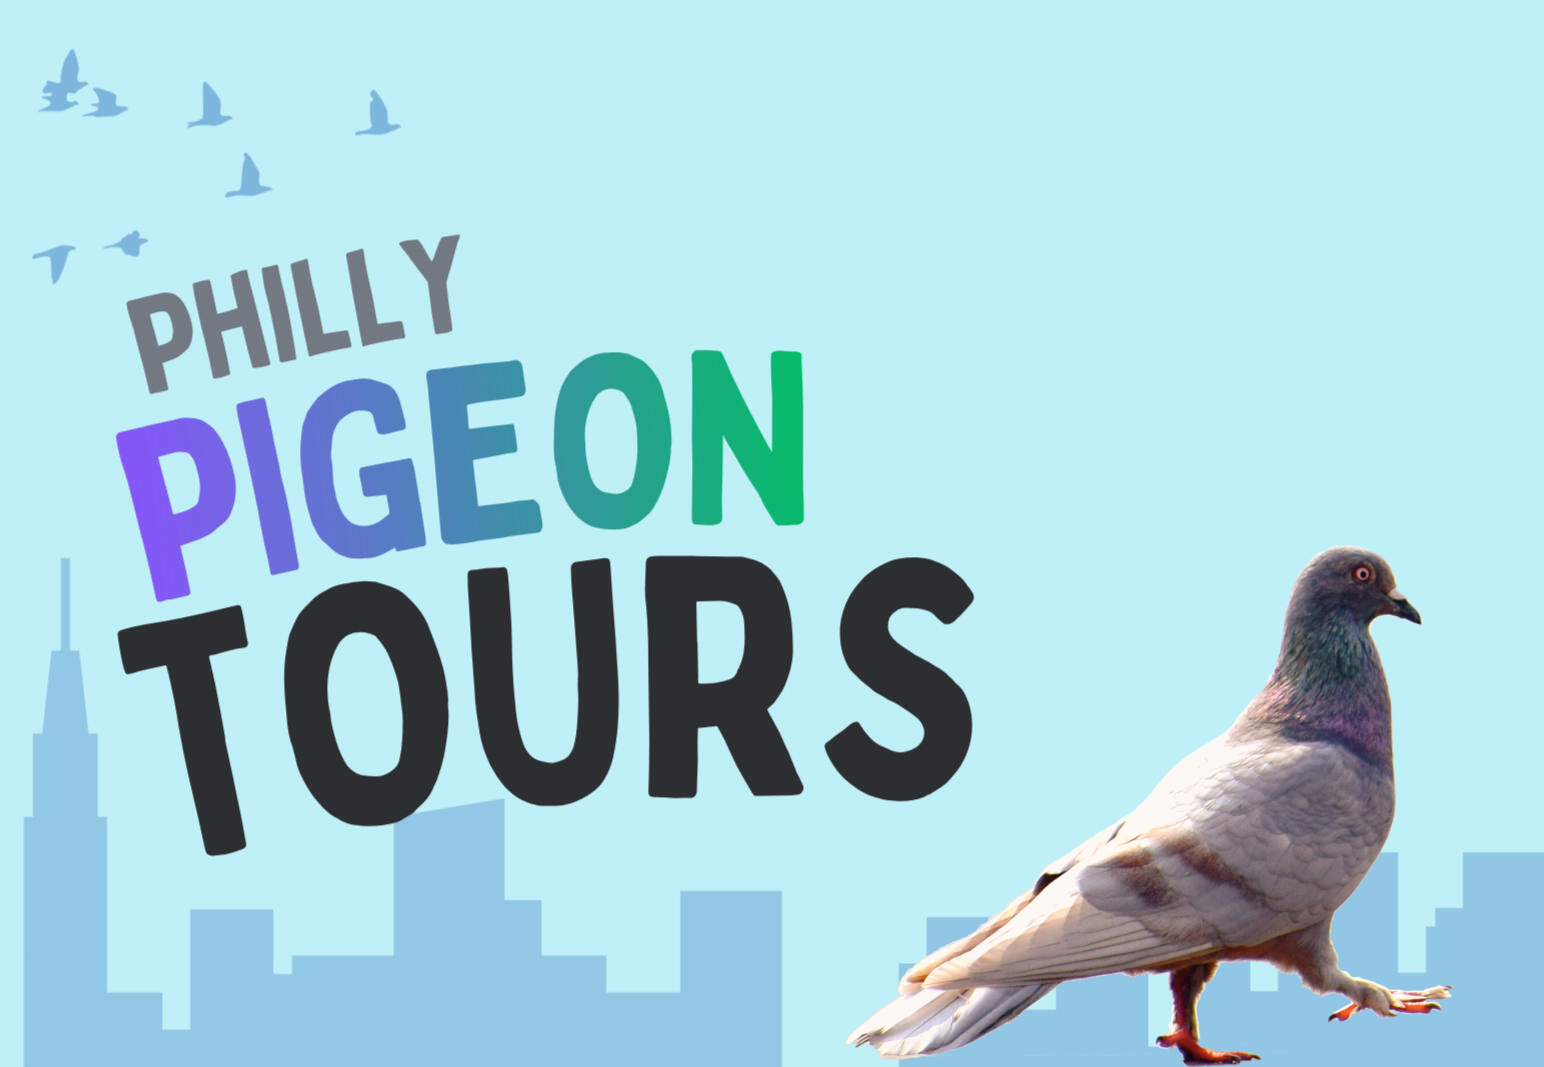
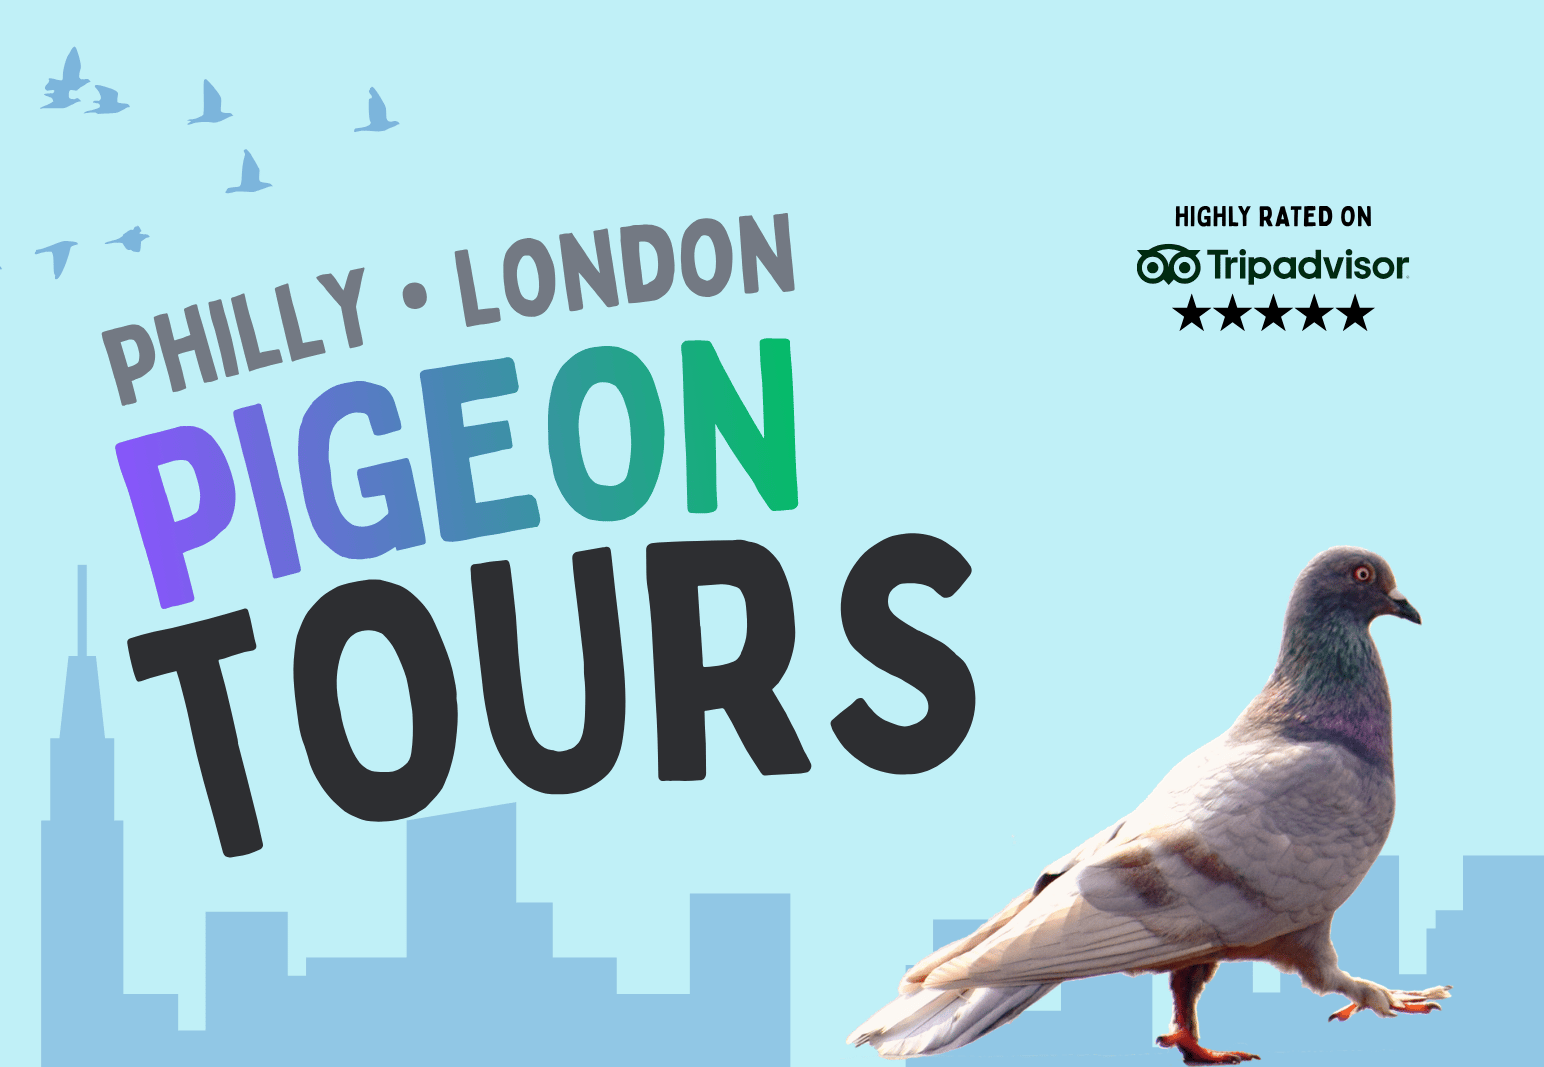
Add London tours and refine style

diff --git a/_includes/tour_description.html b/_includes/tour_description.html
@@ -32,12 +32,14 @@
 ### Duration
 This tour lasts **{{ tour.duration }}**.
 
-Out of respect for your time, we aim to start the tour right on&nbsp;time.
+Out of respect for your time, we aim to start the tour right on&nbsp;time. Please plan to arrive a few minutes early.
 
 Most tours end around 90 minutes, but sometimes run a little longer based on the interests of the group. We recommend planning for 2&nbsp;hours.
 
 ### Distance
 {{ tour.distance }}
+
+{% if tour.seating %}{{ tour.seating }}{% endif %}
 
 ### Meetup location
 {{ tour.points.start }} {{ tour.points.end }}
@@ -52,16 +54,11 @@ Most tours end around 90 minutes, but sometimes run a little longer based on the
   {{ tour.accessibility }}
 {% endif %}
 
-If you have specific mobility needs or questions, [please get in touch](mailto:hello@phillypigeontours.com), and we'll work with you to meet your&nbsp;needs.
+If you have specific mobility needs or questions, [please get in touch](mailto:{{ tour.city.email }}), and we'll work with you to meet your&nbsp;needs.
 
-### Restrooms
+### {{ tour.city.restroom | default: "restroom" | capitalize }}
 
-{% if tour.restroom %}
-There is a restroom at the start/end&nbsp;location.
-{% if tour.restroom_note %}{{ tour.restroom_note }}{% endif %}
-{% else %}
-No restroom is available at the start/end location, though there may be some in the nearby&nbsp;area.
-{% endif %}
+{{ tour.restroom }}
 
 ### Food and water
 
@@ -71,13 +68,14 @@ No restroom is available at the start/end location, though there may be some in 
 
 {{ tour.transit }}
 
+{% if parking %}
 ### Parking
-
 The meetup location has the following parking&nbsp;nearby:
 
 {{ tour.parking.locations }}
 
 {{ tour.parking.note }}
+{% endif %}
 
 {% include what_to_bring.md %}
 </section>

diff --git a/css/styles.scss b/css/styles.scss
@@ -87,7 +87,9 @@
   }
 
   nav {
-    a { color: var(--pigeon-dark-bluegreen); }
+    a {
+      color: var(--pigeon-dark-bluegreen);
+    }
     button, a[role='button'] { color: white; }
 
     details.dropdown > summary {
@@ -163,8 +165,8 @@ main.container-fluid {
 nav {
   align-items: center;
   justify-content: center;
-  --pico-font-weight: 300;
-  --pico-font-size: 1rem;
+  font-size: 0.9rem;
+  --pico-font-weight: 400;
 
   > ul {
     flex-wrap: wrap;
@@ -176,8 +178,8 @@ nav {
 
   > ul > li {
     height: 3.5rem; // 66px, to even the baselines out
-    padding-left: calc(var(--pico-nav-element-spacing-horizontal) * 1.25);
-    padding-right: calc(var(--pico-nav-element-spacing-horizontal) * 1.25);
+    padding-left: --pico-nav-element-spacing-horizontal;
+    padding-right: --pico-nav-element-spacing-horizontal;
 
     &:has(> details) {
       padding-top: calc(var(--pico-nav-element-spacing-vertical) * 0.6);
@@ -193,7 +195,7 @@ nav {
 
   details:open {
     text-decoration: underline;
-    font-weight: 500;
+    --pico-font-weight: 400;
   }
 
 }

diff --git a/_includes/book.html b/_includes/book.html
@@ -3,13 +3,16 @@
   <center>
     <h3>Book your tour</h3>
     <p>5 stars on TripAdvisor!</p>
-    {% include tickets.html tour=include.tour city=include.city %}
-    {% if tour %}
-      {% unless city %}
-        <p>
-          This calendar only shows {{ tour.name }} tours. <a href="{{ tour.city.url }}">See&nbsp;all&nbsp;{{ tour.city.name }}&nbsp;tours.</a>
-        </p>
-      {% endunless %}
+    {% if jekyll.environment == "production" %}
+      {% if tour %}
+        {% unless city %}
+          <p>
+            This calendar only shows {{ tour.name }} tours. <a href="{{ tour.city.url }}">See&nbsp;all&nbsp;{{ tour.city.name }}&nbsp;tours.</a>
+          </p>
+        {% endunless %}
+      {% endif %}
+    {% else %}
+      {% include tickets.html tour=null_tour %}
     {% endif %}
   </center>
 </div>

diff --git a/_includes/email.html b/_includes/email.html
@@ -1,5 +1,11 @@
+{% if include.address %}
+  {% assign address = include.address %}
+{% else %}
+  {% assign address = site.data.config.email %}
+{% endif %}
+
 <center>
-<a href="mailto:{{ site.data.config.email }}" role="button" style="margin-top: 2rem; margin-bottom: 1rem;">
+<a href="mailto:{{ address }}" role="button" style="margin-top: 2rem; margin-bottom: 1rem;">
   ✉ {{ include.text }}
 </a>
 </center>

diff --git a/_includes/hero.html b/_includes/hero.html
@@ -1,3 +1,3 @@
 <div class="container-fluid hero">
-  <img src="assets/images/hero_reviews.png" alt="Silhouette of pigeons flying above a city, with the large text &quot;Pigeon Tours&quot;" title="Pigeon Tours" />
+  <img src="assets/images/hero.png" alt="Silhouette of pigeons flying above a city, with the large text &quot;Pigeon Tours&quot;" title="Pigeon Tours" />
 </div>

diff --git a/_pages/programs/youth.md b/_pages/programs/youth.md
@@ -3,7 +3,7 @@ title: Youth programs
 ---
 <div class="container">
 <section markdown="1">
-# Youth Tours &&nbsp;Programs
+# Youth tours &amp; programs
 
 Pigeons can be a fun and attention-grabbing way to learn about a variety of topics, including science, history, and culture.
 
@@ -33,15 +33,17 @@ Depending on the interests the the group, we can include the following in any yo
 
 Our 90-minute Pigeon Tours are great for kids and teens ages 8&nbsp;&ndash;&nbsp;18.
 
-These tours typically take place along our Italian Market route in Bella Vista. If you know of pigeon flocks closer to you, we’re happy to join you there for the tour instead.
+These tours typically take place along our standard tour routes. If you know of pigeon flocks closer to you, we’re happy to join you there for the tour instead.
 
 Youth tours always include observations of pigeon behaviors and and discussions of pigeon adaptations and ecology.
+
+Youth tours are available in all cities with pigeon tours.
 
 {% include email.html text="Request a youth tour" %}
 </section>
 
 <section markdown="1">
-## On-site youth programs
+## On-site youth programs (Philly only)
 
 Bring Philly Pigeon Tours to your school, camp, or event!
 
@@ -61,7 +63,7 @@ In this program, we use restorative circle practices to explore our feelings and
 
 In this program, youth learn about some of the incredible innovations humans have developed by mimicking other living beings. Youth will also have a chance to brainstorm ideas for new innovations that pull ideas from other creatures.
 
-{% include email.html text="Inquire about youth programs" %}
+{% include email.html text="Request an on-site program" %}
 </section>
 
 <section markdown="1">
@@ -69,13 +71,20 @@ In this program, youth learn about some of the incredible innovations humans hav
 
 ### Standard pricing
 
-A standard 90-minute programs is $30 per child, with a minimum total of $350.
+The table below shows pricing for a 90-minute youth tour or program.
+
+<table>
+  <thead><th>Location</th><th>Price per child</th><th>Tour minimum</th></thead>
+  <tr><td>Philly</td><td>$30</td><td>$350</td></tr>
+  <tr><td>London</td><td>£25</td><td>£300</td></tr>
+</table>
+
 
 ### Gift economy pricing
 
 We understand that our pricing may be out of reach for homeschool groups, non-profits, and schools with a smaller budget. In these cases, we use a gift economy model.
 
-If you know that our standard pricing is out of reach, please email us with an offer that works for your budget and also supports our program. While considering your offer, please keep in mind that this is one of our main sources of income.
+If you know that our standard pricing is out of reach, please email us with an offer that works for your budget and also supports our program. While considering your offer, please keep in mind that we are a small company and that this is one of our main sources of income.
 </section>
 
 

diff --git a/_pages/programs/private.md b/_pages/programs/private.md
@@ -1,5 +1,7 @@
 ---
 title: Private tours
+permalink: /private
+address: private@pigeontours.org
 ---
 <div class="container">
 <section markdown="1">
@@ -14,9 +16,9 @@ People have scheduled private tours to:
 - go on an outdoor/birding club outing
 - supplement a college / university course
 
-Private tours are currently only available in Philadelphia.
+In your email, let us know your preferred route and dates, and an estimated group size (it's ok if it's not final yet).
 
-{% include email.html text="Request a private tour" %}
+{% include email.html address=page.address text="Request a private tour" %}
 </section>
 
 <section markdown="1">
@@ -28,18 +30,18 @@ Private tours are currently only available in Philadelphia.
 Our private tour pricing follows our standard ticket prices.
 
 <table>
-  <thead><th>Ticket type</th><th>Ages</th><th>Price per person</th></thead>
-  <tr><td>Admit one</td><td>Ages 13+</td><td>$30</td></tr>
-  <tr><td>Kids</td><td>Ages 4-12</td><td>$10</td></tr>
+  <thead><th>Ticket type</th><th>Ages</th><th>Per person (US)</th><th>Per person (UK)</th></thead>
+  <tr><td>Admit one</td><td>Ages 13+</td><td>$30</td><td>£25</td></tr>
+  <tr><td>Kids</td><td>Ages 4-12</td><td>$10</td><td>£10</td></tr>
 </table>
 
 <br/>
 Private tours have a minimum price per tour.
 
 <table>
-  <thead><th>Day of week</th><th>Minimum&nbsp;price<br/>per&nbsp;tour</th><th>Equivalent to<br/># people</th></thead>
-  <tr><td>Monday - Friday</td><td>$150 minimum</td><td>5</td></tr>
-  <tr><td>Saturday & Sunday</td><td>$360 minimum</td><td>12</td></tr>
+  <thead><th>Day of week</th><th>US</th><th>UK</th></thead>
+  <tr><td>Weekday (Monday - Friday)</td><td>$150</td><td>£100</td></tr>
+  <tr><td>Weekend (Saturday & Sunday)</td><td>$360</td><td>£200</td></tr>
 </table>
 
 ### Gift economy pricing
@@ -48,6 +50,6 @@ If standard pricing is out of reach, please email us with an offer that works fo
 
 While considering your offer, please keep in mind that we're a small company, and currently rely on tours as our primary source of income.
 
-{% include email.html text="Request a private tour" %}
+{% include email.html address=page.address text="Request a private tour" %}
 </section>
 </div>

diff --git a/_pages/tours/london/london.md b/_pages/tours/london/london.md
@@ -1,0 +1,28 @@
+---
+title: London pigeon tours
+permalink: "/london"
+tour: london
+image_top: london-walking-ledge
+image_btm: london-pigeons-bird-guide
+
+skip_return_link: true
+---
+{% assign tour = site.data.tours[page.tour] %}
+
+{% capture summary %}
+On our London Pigeon Tour, meet the pigeons of Trafalgar Square and St. James’s Park!
+
+Your guide will bring you around the historic London park — the site of the royal aviary of King James I — and share the fascinating story of London pigeons. Pigeons have served as wartime messengers, aristocratic status symbols, beloved fancy breeds (Charles Darwin bred pigeons!), and so much more.
+
+You’ll visit nearby flocks and observe pigeons coexisting with the famous park waterbirds, defying anti-pigeon spikes and netting, and interacting with everyday Londoners, as they have for thousands of years.
+{% endcapture %}
+
+{% capture what_youll_do %}
+- We’ll start the tour in Trafalgar Square and learn a little bit about the history of **pigeons in London**
+- On our way to St. James’s Park, we’ll learn how to spot and identify **anti-pigeon architecture**
+- We will visit **multiple pigeon flocks** in the park and have a chance to observe their behavior. We’ll learn about how they reproduce, navigate, and adapt to urban life
+- We’ll meet **other types of birds**, from the famous park pelicans to grey herons, parakeets (fellow ferals!), greylag geese, coots, and many more, and learn how they fit into the **history of the park**
+- The tour ends outside of St. James’s Café, where we’ll talk about the complicated **pigeon/human relationship** and their role as pests, pets, posties, and beyond.
+{% endcapture %}
+
+{% include tour_description.html %}

diff --git a/_pages/tours/philly/index.md b/_pages/tours/philly/index.md
@@ -7,10 +7,10 @@ permalink: "/philly"
   <section>
     <h1>Philly Pigeon Tours</h1>
     <!-- <p>We offer a tour of the Italian Market in South Philly, as well as a tour of Center City including City Hall and Reading Terminal Market.</p> -->
-    <blockquote>
+    <!-- <blockquote>
       <em>"South Philly's hottest new excursion"</em>
       <br /><small>- <a href="{{ site.data.links.inquirer }}">The Philadelphia Inquirer</a></small>
-    </blockquote>
+    </blockquote> -->
     <blockquote>
       <em>"So unique, so friendly, so thought-provoking, so simple, so sweet."</em>
       <br /><small>- <a href="{{ site.data.links.tripadvisor }}">Review on TripAdvisor</a></small>
@@ -23,27 +23,25 @@ permalink: "/philly"
 
 <section>
 <div class="grid">
+<div></div>
 <div markdown="1">
 ### All Philly Tours
-
-This calendar shows all Philly tours, including:
-
-- Italian Market Pigeon Tours
-- Center City Pigeon Tours
-</div>
+Italian Market &bull; Center City
 {% include book.html city="philly" %}
+</div>
+<div></div>
 </div>
 </section>
 
-<section markdown="1">
-### Looking for a private tour?
-
-We offer private pigeon tours for just your group, team, or company.
-
-Only available in Philly!
-
+<section class="center explainer">
+<center>
+<br />
+<h3>Looking for a private tour?</h3>
+<p>We offer private pigeon tours for just your party, family, or team.</p>
 <a href="/programs/private" role="button">
   🐦 Private tours
 </a>
-
+<br />
+<br />
+</center>
 </section>

diff --git a/_pages/programs/talks.md b/_pages/programs/talks.md
@@ -1,4 +1,5 @@
 ---
+address: speaking@pigeontours.org
 ---
 <div class="container">
 <section markdown="1">
@@ -18,9 +19,9 @@ Co-founders and tour guides Hannah Michelle and Aspen can speak about pigeons fr
 - science&nbsp;communication
 </div>
 
-We're open to giving keynotes, joining panel discussions, or leading educational workshops. We also offer [youth programs](/programs/youth) for schools and colleges.
+We're open to giving keynotes, joining or moderating panel discussions, or leading educational workshops. We also offer [youth programs](/programs/youth) for schools and colleges.
 
-{% include email.html text="Request a talk" %}
+{% include email.html address=page.address text="Request a talk" %}
 </section>
 
 
@@ -28,14 +29,15 @@ We're open to giving keynotes, joining panel discussions, or leading educational
 {% assign past_events = site.data.speaking | where: "future", nil %}
 
 <section markdown="1">
+{% unless future_events == empty %}
 ## Upcoming talks
-
 {% for event in future_events %}
 **{{ event.title }}**
 <br />[{{ event.venue }}]({{ event.link }})
 <br />{{ event.location }}
 <br />{{ event.date }}
 {% endfor %}
+{% endunless %}
 
 ## Past talks
 
@@ -46,6 +48,6 @@ We're open to giving keynotes, joining panel discussions, or leading educational
 <br />{{ event.date }}
 {% endfor %}
 
-{% include email.html text="Request a talk" %}
+{% include email.html address=page.address text="Request a talk" %}
 </section>
 </div>

diff --git a/_includes/what_to_bring.md b/_includes/what_to_bring.md
@@ -10,4 +10,6 @@ Pigeon tours are rain-or-shine &mdash; just like&nbsp;pigeons &mdash; so make su
 - Your binoculars, if you have a pair you like
 </div>
 
+{% if tour.binoculars %}
 If you don't have your own binoculars, no worries &mdash; you can borrow one of our loaner&nbsp;pairs!
+{% endif %}
